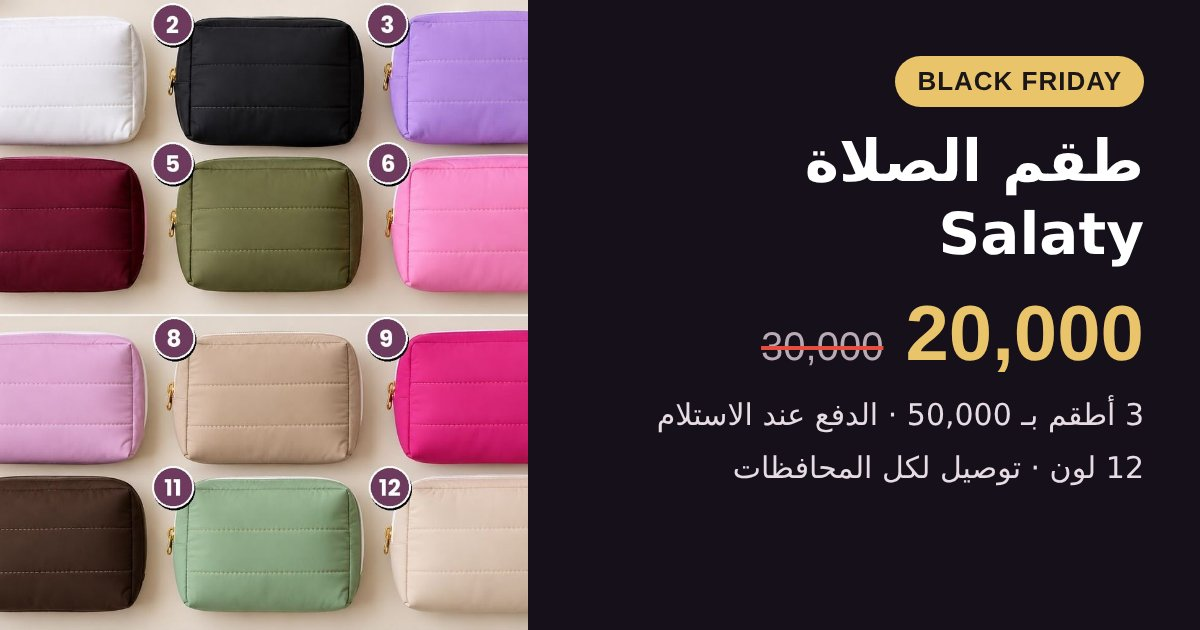
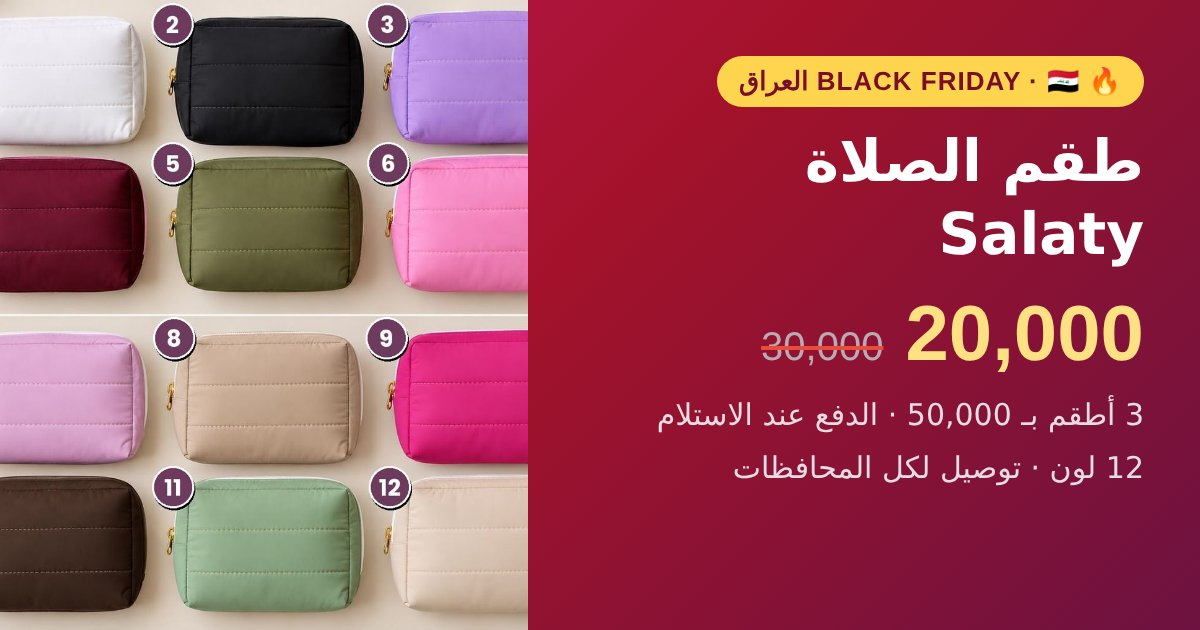
Festive red hero, Iraq badge and flag, prices in Iraqi dinar
Claude-Session: https://claude.ai/code/session_013TcVRn1Hf39AJje3vKwoLh

diff --git a/thai/index.html b/thai/index.html
@@ -10,12 +10,12 @@
 <meta property="og:site_name" content="Pure Veil">
 <meta property="og:title" content="🖤 بلاك فرايدي: 5 قطع تايلندي بـ 25,000 بس">
 <meta property="og:description" content="كانت 3 قطع بـ 25,000، اليوم 5 قطع بنفس السعر: قطعتين هدية. 48 لون والدفع عند الاستلام 👇">
-<meta property="og:image" content="https://maulana85.github.io/pureveil-shop-/thai/og.jpg">
+<meta property="og:image" content="https://maulana85.github.io/pureveil-shop-/thai/og.jpg?v=2">
 <meta property="og:image:width" content="1200">
 <meta property="og:image:height" content="630">
 <meta property="og:url" content="https://maulana85.github.io/pureveil-shop-/thai/">
 <meta name="twitter:card" content="summary_large_image">
-<meta name="theme-color" content="#16101a">
+<meta name="theme-color" content="#a3122a">
 <link rel="preconnect" href="https://fonts.googleapis.com">
 <link rel="preconnect" href="https://fonts.gstatic.com" crossorigin>
 <link rel="stylesheet" href="https://fonts.googleapis.com/css2?family=Readex+Pro:wght@400;600;700&family=IBM+Plex+Sans+Arabic:wght@400;500;600&display=swap">
@@ -37,7 +37,7 @@ body{margin:0;background:var(--bg);color:var(--ink);font-family:var(--body);font
 .tag{justify-self:start;font:700 12px/1 var(--display);letter-spacing:.5px;background:var(--gold);color:#1b1619;border-radius:999px;padding:6px 12px}
 .hero h1{font:700 25px/1.35 var(--display);margin:0;text-wrap:balance}
 .hero p{margin:0;color:#d9cfd6;font-size:14.5px}
-.timer{font:600 13px var(--display);color:var(--gold)}
+.timer{font:600 13px var(--display);color:#ffe082}
 .ladder{display:grid;grid-template-columns:repeat(3,1fr);gap:8px}
 .tier{background:var(--surface);border:1px solid var(--line);border-radius:12px;padding:10px 6px;text-align:center;display:grid;gap:1px;font-variant-numeric:tabular-nums}
 .tier.best{border:2px solid var(--accent);position:relative}
@@ -104,17 +104,29 @@ input:focus,select:focus,textarea:focus{outline:2px solid var(--accent);outline-
 .photo + .sub{border-top:1px solid var(--line)}
 .no{position:absolute;right:5px;bottom:5px;min-width:26px;height:26px;padding:0 5px;border-radius:999px;background:#6e3b5e;color:#fff;border:2px solid #fff;font:700 13px/22px var(--display);text-align:center;pointer-events:none;box-shadow:0 1px 4px rgba(0,0,0,.3);direction:ltr}
 footer{text-align:center;font-size:12px;color:var(--muted)}
+.hero{position:relative;overflow:hidden;background:radial-gradient(120% 90% at 100% 0%,#ff5a5f 0%,rgba(255,90,95,0) 55%),radial-gradient(90% 80% at 0% 100%,#f5b041 0%,rgba(245,176,65,0) 50%),linear-gradient(135deg,#c2185b 0%,#a3122a 45%,#6d1240 100%);color:#fff}
+.hero::after{content:"";position:absolute;inset:0;background-image:radial-gradient(circle,rgba(255,255,255,.22) 1.5px,transparent 1.6px);background-size:22px 22px;mask-image:linear-gradient(180deg,#000,transparent 85%);-webkit-mask-image:linear-gradient(180deg,#000,transparent 85%);pointer-events:none}
+.hero>*{position:relative;z-index:1}
+.hero p{color:#fff3f0 !important}
+.hero .tag{background:#ffd54f;color:#7a0e2a;box-shadow:0 2px 0 rgba(0,0,0,.15)}
+.iq{justify-self:start;display:inline-flex;align-items:center;gap:6px;background:rgba(255,255,255,.16);border:1px solid rgba(255,255,255,.35);border-radius:999px;padding:4px 10px;font:600 12.5px var(--display)}
+.iq svg{width:20px;height:14px;border-radius:2px;box-shadow:0 0 0 1px rgba(0,0,0,.15)}
+.cur{text-align:center;font:600 13px var(--display);color:var(--accent);margin:-6px 0 -4px}
+.tier strong{white-space:nowrap}
+.tier strong i{display:block;font:500 11px/1.2 var(--body);font-style:normal;color:var(--muted)}
 </style>
 </head>
 <body>
 <div class="wrap" id="app">
   <section class="hero">
-    <span class="tag">BLACK FRIDAY · بلّشت الخصومات</span>
-    <h1>5 قطع حجاب تايلندي بـ 25,000 بس</h1>
-    <p>كنا نبيع 3 قطع بـ 25,000، واليوم 5 قطع بنفس السعر، يعني <b style="color:var(--gold)">قطعتين هدية</b>. مودال تايلندي ناعم وثابت بـ 48 لون، والخصم على الكمية الموجودة بس.</p>
+    <span class="tag">🔥 BLACK FRIDAY · بلّشت الخصومات</span>
+    <span class="iq"><svg viewBox="0 0 30 20" aria-hidden="true"><rect width="30" height="20" fill="#000"/><rect width="30" height="13.33" fill="#fff"/><rect width="30" height="6.67" fill="#ce1126"/><text x="15" y="12.2" text-anchor="middle" font-size="4.6" font-weight="700" fill="#007a3d" font-family="Tahoma,Arial">الله أكبر</text></svg> متوفر بالعراق · توصيل لكل المحافظات</span>
+    <h1>5 قطع حجاب تايلندي بـ 25,000 دينار بس</h1>
+    <p>كنا نبيع 3 قطع بـ 25,000، واليوم 5 قطع بنفس السعر، يعني <b style="color:#ffe082">قطعتين هدية</b>. مودال تايلندي ناعم وثابت بـ 48 لون، والخصم على الكمية الموجودة بس.</p>
     <div class="timer" id="timer">⚡ الخصم على الكمية الموجودة بالمستودع بس، والألوان عم تخلص</div>
   </section>
 
+  <div class="cur">الأسعار بالدينار العراقي 🇮🇶</div>
   <div class="ladder" id="ladder"></div>
   <div class="perks"><span>🚚 توصيل لكل المحافظات</span><span>💵 الدفع عند الاستلام</span><span>🎨 48 لون</span></div>
   <div class="how"><b>١</b> اكبسي على اللون <b>٢</b> عبّي عنوانك <b>٣</b> أكّدي الطلب</div>
@@ -168,7 +180,7 @@ const CARDS = [
 const GOVS = ['بغداد','البصرة','نينوى (الموصل)','أربيل','السليمانية','دهوك','كركوك','الأنبار','ديالى','صلاح الدين','بابل','كربلاء','النجف','واسط','القادسية (الديوانية)','ذي قار (الناصرية)','ميسان (العمارة)','المثنى (السماوة)'];
 
 const $ = id => document.getElementById(id);
-const fmt = n => n.toLocaleString('en-US') + ' د.ع';
+const fmt = n => n.toLocaleString('en-US') + ' دينار';
 const priceOf = (t, q) => Math.floor(q / G) * t[G] + t[q % G];
 const sel = {};          // color -> qty chosen
 let stock = null;        // color -> available, null until loaded
@@ -178,7 +190,7 @@ const unit = q => q === 1 ? 'قطعة' : q === 2 ? 'قطعتين' : q + ' قطع
 $('ladder').classList.add('five');
 $('ladder').innerHTML = [5, 1, 2, 3, 4].map(q => q === G
   ? `<div class="tier best"><b>${unit(q)}</b><span><strong>${fmt(NEW[q])}</strong> <s>${fmt(OLD[q])}</s></span><small>وفّري ${fmt(OLD[q] - NEW[q])}</small></div>`
-  : `<div class="tier"><b>${unit(q)}</b><s>${fmt(OLD[q])}</s><strong>${fmt(NEW[q])}</strong></div>`).join('');
+  : `<div class="tier"><b>${unit(q)}</b><s>${fmt(OLD[q])}</s><strong>${NEW[q].toLocaleString('en-US')}<i>دينار</i></strong></div>`).join('');
 $('gov').innerHTML = '<option value="">اختاري…</option>' + GOVS.map(g => `<option>${g}</option>`).join('');
 
 const photos = $('photos');

diff --git a/salaty/index.html b/salaty/index.html
@@ -10,12 +10,12 @@
 <meta property="og:site_name" content="Pure Veil">
 <meta property="og:title" content="🖤 بلاك فرايدي: طقم الصلاة Salaty بـ 20,000 بدل 30,000">
 <meta property="og:description" content="12 لون · 3 أطقم بـ 50,000 بس · الدفع عند الاستلام لكل محافظات العراق. الكمية محدودة، اختاري لونك قبل ما يخلص 👇">
-<meta property="og:image" content="https://maulana85.github.io/pureveil-shop-/salaty/og.jpg">
+<meta property="og:image" content="https://maulana85.github.io/pureveil-shop-/salaty/og.jpg?v=2">
 <meta property="og:image:width" content="1200">
 <meta property="og:image:height" content="630">
 <meta property="og:url" content="https://maulana85.github.io/pureveil-shop-/salaty/">
 <meta name="twitter:card" content="summary_large_image">
-<meta name="theme-color" content="#16101a">
+<meta name="theme-color" content="#a3122a">
 <link rel="preconnect" href="https://fonts.googleapis.com">
 <link rel="preconnect" href="https://fonts.gstatic.com" crossorigin>
 <link rel="stylesheet" href="https://fonts.googleapis.com/css2?family=Readex+Pro:wght@400;600;700&family=IBM+Plex+Sans+Arabic:wght@400;500;600&display=swap">
@@ -37,7 +37,7 @@ body{margin:0;background:var(--bg);color:var(--ink);font-family:var(--body);font
 .tag{justify-self:start;font:700 12px/1 var(--display);letter-spacing:.5px;background:var(--gold);color:#1b1619;border-radius:999px;padding:6px 12px}
 .hero h1{font:700 25px/1.35 var(--display);margin:0;text-wrap:balance}
 .hero p{margin:0;color:#d9cfd6;font-size:14.5px}
-.timer{font:600 13px var(--display);color:var(--gold)}
+.timer{font:600 13px var(--display);color:#ffe082}
 .ladder{display:grid;grid-template-columns:repeat(3,1fr);gap:8px}
 .tier{background:var(--surface);border:1px solid var(--line);border-radius:12px;padding:10px 6px;text-align:center;display:grid;gap:1px;font-variant-numeric:tabular-nums}
 .tier.best{border:2px solid var(--accent);position:relative}
@@ -94,17 +94,29 @@ input:focus,select:focus,textarea:focus{outline:2px solid var(--accent);outline-
 .done dt{color:var(--muted)}
 .done dd{margin:0}
 footer{text-align:center;font-size:12px;color:var(--muted)}
+.hero{position:relative;overflow:hidden;background:radial-gradient(120% 90% at 100% 0%,#ff5a5f 0%,rgba(255,90,95,0) 55%),radial-gradient(90% 80% at 0% 100%,#f5b041 0%,rgba(245,176,65,0) 50%),linear-gradient(135deg,#c2185b 0%,#a3122a 45%,#6d1240 100%);color:#fff}
+.hero::after{content:"";position:absolute;inset:0;background-image:radial-gradient(circle,rgba(255,255,255,.22) 1.5px,transparent 1.6px);background-size:22px 22px;mask-image:linear-gradient(180deg,#000,transparent 85%);-webkit-mask-image:linear-gradient(180deg,#000,transparent 85%);pointer-events:none}
+.hero>*{position:relative;z-index:1}
+.hero p{color:#fff3f0 !important}
+.hero .tag{background:#ffd54f;color:#7a0e2a;box-shadow:0 2px 0 rgba(0,0,0,.15)}
+.iq{justify-self:start;display:inline-flex;align-items:center;gap:6px;background:rgba(255,255,255,.16);border:1px solid rgba(255,255,255,.35);border-radius:999px;padding:4px 10px;font:600 12.5px var(--display)}
+.iq svg{width:20px;height:14px;border-radius:2px;box-shadow:0 0 0 1px rgba(0,0,0,.15)}
+.cur{text-align:center;font:600 13px var(--display);color:var(--accent);margin:-6px 0 -4px}
+.tier strong{white-space:nowrap}
+.tier strong i{display:block;font:500 11px/1.2 var(--body);font-style:normal;color:var(--muted)}
 </style>
 </head>
 <body>
 <div class="wrap" id="app">
   <section class="hero">
-    <span class="tag">BLACK FRIDAY · بلّشت الخصومات</span>
-    <h1>طقم الصلاة Salaty صار بـ 20,000 بس بدل 30,000</h1>
+    <span class="tag">🔥 BLACK FRIDAY · بلّشت الخصومات</span>
+    <span class="iq"><svg viewBox="0 0 30 20" aria-hidden="true"><rect width="30" height="20" fill="#000"/><rect width="30" height="13.33" fill="#fff"/><rect width="30" height="6.67" fill="#ce1126"/><text x="15" y="12.2" text-anchor="middle" font-size="4.6" font-weight="700" fill="#007a3d" font-family="Tahoma,Arial">الله أكبر</text></svg> متوفر بالعراق · توصيل لكل المحافظات</span>
+    <h1>طقم الصلاة Salaty صار بـ 20,000 دينار بس بدل 30,000</h1>
     <p>أنعم طقم لصلاتك، بشنطة أنيقة بـ 12 لون. الخصم لفترة محدودة وعلى الكمية الموجودة بس، وكل ما كثّرتي وفّرتي أكثر.</p>
     <div class="timer" id="timer">⚡ الخصم على الكمية الموجودة بالمستودع بس، والألوان عم تخلص</div>
   </section>
 
+  <div class="cur">الأسعار بالدينار العراقي 🇮🇶</div>
   <div class="ladder" id="ladder"></div>
   <div class="perks"><span>🚚 توصيل لكل المحافظات</span><span>💵 الدفع عند الاستلام</span><span>🎁 هدية مثالية</span></div>
   <div class="how"><b>١</b> اكبسي على اللون <b>٢</b> عبّي عنوانك <b>٣</b> أكّدي الطلب</div>
@@ -152,13 +164,13 @@ const XS = [[104,440],[523,858],[934,1268]], YS = [[20,290],[295,565],[625,895],
 const GOVS = ['بغداد','البصرة','نينوى (الموصل)','أربيل','السليمانية','دهوك','كركوك','الأنبار','ديالى','صلاح الدين','بابل','كربلاء','النجف','واسط','القادسية (الديوانية)','ذي قار (الناصرية)','ميسان (العمارة)','المثنى (السماوة)'];
 
 const $ = id => document.getElementById(id);
-const fmt = n => n.toLocaleString('en-US') + ' د.ع';
+const fmt = n => n.toLocaleString('en-US') + ' دينار';
 const priceOf = (t, q) => Math.floor(q / 3) * t[3] + t[q % 3];
 const sel = {};          // color -> qty chosen
 let stock = null;        // color -> available, null until loaded
 const params = new URLSearchParams(location.search);
 
-$('ladder').innerHTML = [1, 2, 3].map(q => `<div class="tier${q === 3 ? ' best' : ''}"><b>${q === 1 ? 'طقم' : q === 2 ? 'طقمين' : '3 أطقم'}</b><s>${fmt(OLD[q])}</s><strong>${fmt(NEW[q])}</strong><small>وفّري ${fmt(OLD[q] - NEW[q])}</small></div>`).join('');
+$('ladder').innerHTML = [1, 2, 3].map(q => `<div class="tier${q === 3 ? ' best' : ''}"><b>${q === 1 ? 'طقم' : q === 2 ? 'طقمين' : '3 أطقم'}</b><s>${fmt(OLD[q])}</s><strong>${NEW[q].toLocaleString('en-US')}<i>دينار</i></strong><small>وفّري ${fmt(OLD[q] - NEW[q])}</small></div>`).join('');
 $('gov').innerHTML = '<option value="">اختاري…</option>' + GOVS.map(g => `<option>${g}</option>`).join('');
 
 const photo = $('photo');

diff --git a/index.html b/index.html
@@ -9,12 +9,12 @@
 <meta property="og:site_name" content="Pure Veil">
 <meta property="og:title" content="🖤 بلّشت خصومات البلاك فرايدي على Pure Veil">
 <meta property="og:description" content="تايلندي 5 قطع بـ 25,000 · طقم الصلاة Salaty بـ 20,000 · الدفع عند الاستلام لكل المحافظات 👇">
-<meta property="og:image" content="https://maulana85.github.io/pureveil-shop-/thai/og.jpg">
+<meta property="og:image" content="https://maulana85.github.io/pureveil-shop-/thai/og.jpg?v=2">
 <meta property="og:image:width" content="1200">
 <meta property="og:image:height" content="630">
 <meta property="og:url" content="https://maulana85.github.io/pureveil-shop-/">
 <meta name="twitter:card" content="summary_large_image">
-<meta name="theme-color" content="#16101a">
+<meta name="theme-color" content="#a3122a">
 <link rel="preconnect" href="https://fonts.googleapis.com">
 <link rel="stylesheet" href="https://fonts.googleapis.com/css2?family=Readex+Pro:wght@400;600;700&family=IBM+Plex+Sans+Arabic:wght@400;500;600&display=swap">
 <style>
@@ -36,24 +36,33 @@ a.card s{color:var(--muted);font-size:13px;text-decoration-color:#c0392b;margin-
 a.card .go{font:600 13px var(--display);color:var(--ok)}
 .perks{display:flex;flex-wrap:wrap;gap:6px 14px;font-size:13px;color:var(--muted);justify-content:center}
 footer{text-align:center;font-size:12px;color:var(--muted)}
+.hero{position:relative;overflow:hidden;background:radial-gradient(120% 90% at 100% 0%,#ff5a5f 0%,rgba(255,90,95,0) 55%),radial-gradient(90% 80% at 0% 100%,#f5b041 0%,rgba(245,176,65,0) 50%),linear-gradient(135deg,#c2185b 0%,#a3122a 45%,#6d1240 100%);color:#fff}
+.hero::after{content:"";position:absolute;inset:0;background-image:radial-gradient(circle,rgba(255,255,255,.22) 1.5px,transparent 1.6px);background-size:22px 22px;mask-image:linear-gradient(180deg,#000,transparent 85%);-webkit-mask-image:linear-gradient(180deg,#000,transparent 85%);pointer-events:none}
+.hero>*{position:relative;z-index:1}
+.hero p{color:#fff3f0 !important}
+.hero .tag{background:#ffd54f;color:#7a0e2a;box-shadow:0 2px 0 rgba(0,0,0,.15)}
+.iq{justify-self:start;display:inline-flex;align-items:center;gap:6px;background:rgba(255,255,255,.16);border:1px solid rgba(255,255,255,.35);border-radius:999px;padding:4px 10px;font:600 12.5px var(--display)}
+.iq svg{width:20px;height:14px;border-radius:2px;box-shadow:0 0 0 1px rgba(0,0,0,.15)}
+.cur{text-align:center;font:600 13px var(--display);color:var(--accent);margin:-6px 0 -4px}
 </style>
 </head>
 <body>
 <div class="wrap">
   <section class="hero">
-    <span class="tag">BLACK FRIDAY · بلّشت الخصومات</span>
+    <span class="tag">🔥 BLACK FRIDAY · بلّشت الخصومات</span>
+    <span class="iq"><svg viewBox="0 0 30 20" aria-hidden="true"><rect width="30" height="20" fill="#000"/><rect width="30" height="13.33" fill="#fff"/><rect width="30" height="6.67" fill="#ce1126"/><text x="15" y="12.2" text-anchor="middle" font-size="4.6" font-weight="700" fill="#007a3d" font-family="Tahoma,Arial">الله أكبر</text></svg> متوفر بالعراق · توصيل لكل المحافظات</span>
     <h1>أهلاً فيكِ بـ Pure Veil 🤍</h1>
     <p>اختاري الصنف اللي بيعجبك، اكبسي على ألوانك، وثبّتي طلبك بدقيقة. الخصم على الكمية الموجودة بس.</p>
   </section>
   <a class="card" href="thai/">
     <img src="thai/c1.jpg" alt="حجاب مودال تايلندي">
-    <div><h2>حجاب مودال تايلندي</h2><div class="price">5 قطع بـ 25,000 <s>43,000</s></div><div class="go">48 لون · قطعتين هدية ←</div></div>
+    <div><h2>حجاب مودال تايلندي</h2><div class="price">5 قطع بـ 25,000 دينار <s>43,000</s></div><div class="go">48 لون · قطعتين هدية ←</div></div>
   </a>
   <a class="card" href="salaty/">
     <img src="salaty/salaty.jpg" alt="طقم الصلاة Salaty">
-    <div><h2>طقم الصلاة Salaty</h2><div class="price">20,000 <s>30,000</s></div><div class="go">12 لون · 3 أطقم بـ 50,000 ←</div></div>
+    <div><h2>طقم الصلاة Salaty</h2><div class="price">20,000 دينار <s>30,000</s></div><div class="go">12 لون · 3 أطقم بـ 50,000 ←</div></div>
   </a>
-  <div class="perks"><span>🚚 توصيل لكل المحافظات</span><span>💵 الدفع عند الاستلام</span></div>
+  <div class="perks"><span>🇮🇶 الأسعار بالدينار العراقي</span><span>🚚 توصيل لكل المحافظات</span><span>💵 الدفع عند الاستلام</span></div>
   <footer>Pure Veil · العراق</footer>
 </div>
 </body>
